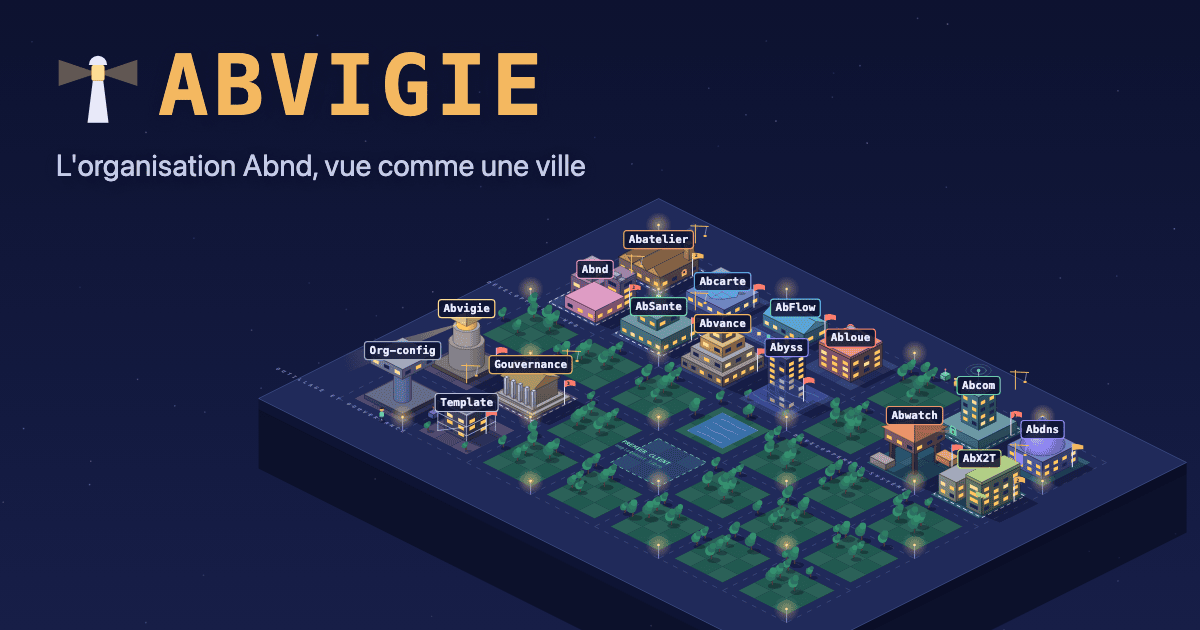
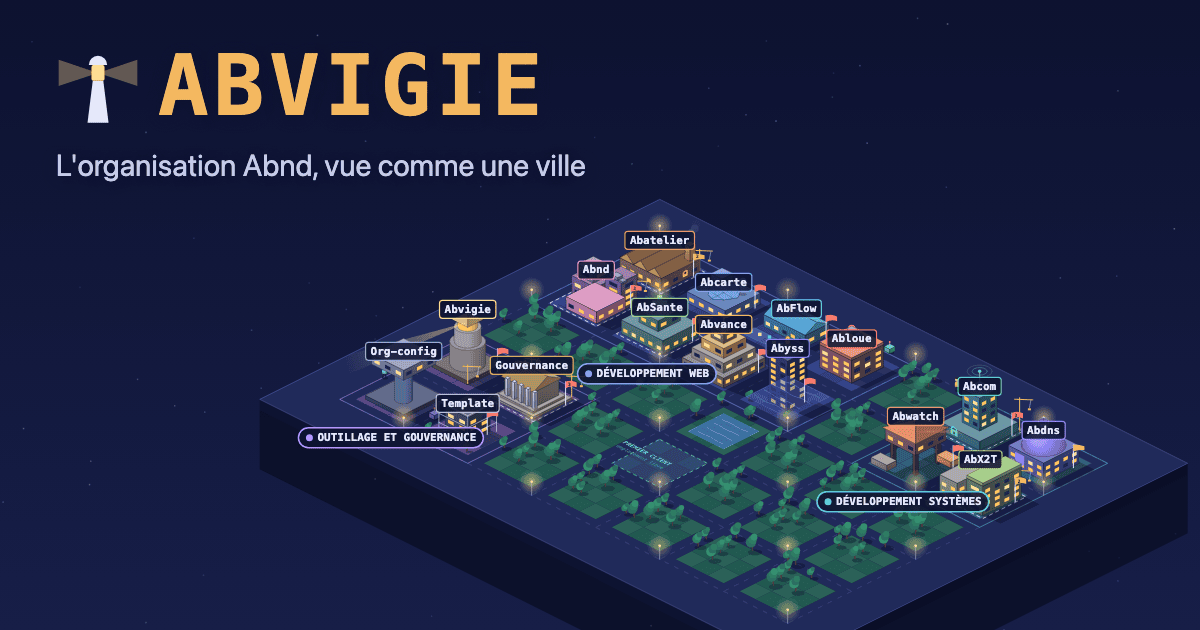
feat(carte): quartiers mieux marqués, enseignes lisibles, grue au sol
- liseré et sol plus teinté par quartier ; enseigne en pastille, toujours dans l'écran
- survol d'un quartier : liseré éclairé et infobulle (projets, actifs, alertes)
- la grue d'un chantier se dresse au sol et non plus dans le vide

diff --git a/server/assets/js/carte.js b/server/assets/js/carte.js
@@ -37,6 +37,9 @@ async function demarrer() {
     personnages: true,
     /** @type {Batiment | null} */ survol: null,
     /** @type {ReturnType<typeof acteurs.trouver>} */ survolActeur: null,
+    /** @type {import('./monde.js').Quartier | null} */ quartier: null,
+    /** Les enseignes de quartier telles que dessinées, en pixels d'écran, pour savoir si la souris est dessus. */
+    /** @type {{ q: import('./monde.js').Quartier, x: number, y: number, l: number, h: number }[]} */ enseignes: [],
     /** @type {string | null} */ selection: null,
     /** @type {Set<string>} */ surligne: new Set(),
     curseur: { x: 0, y: 0 },
@@ -140,6 +143,7 @@ async function demarrer() {
     ctx.translate(-camera.x, -camera.y);
     const scene = { ox: 0, oy: 0, t: etat.t, anim: animer(), zoom: camera.zoom };
     monde.dessinerSol(ctx, scene, camera.zoneVisible(80));
+    for (const q of monde.quartiers) monde.contourQuartier(ctx, q, etat.quartier === q);
 
     // au sol : pointillés des chantiers, anneaux de sélection et de quête
     for (const b of monde.batiments) {
@@ -171,12 +175,26 @@ async function demarrer() {
 
     etiquettes(ctx);
     infobulle(ctx);
+    infobulleQuartier(ctx);
   }
 
   /** @param {CanvasRenderingContext2D} c */
   function etiquettes(c) {
     c.textBaseline = 'middle';
     c.textAlign = 'center';
+    etat.enseignes = [];
+    if (camera.zoom >= 0.3) {
+      for (const q of monde.quartiers) {
+        const [wx, wy] = monde.enseigneQuartier(q);
+        const [ex, y] = camera.versEcran(wx, wy);
+        c.font = `800 11px ${POLICE}`;
+        const l = c.measureText(q.titre.toUpperCase()).width + 26;
+        // l'enseigne reste toujours dans l'écran : jamais coupée sur un bord
+        const x = Math.min(Math.max(ex, 8 + l / 2), camera.largeur - 8 - l / 2);
+        enseigne(c, q.titre, x, y, monde.accentQuartier(q.id), etat.quartier === q);
+        etat.enseignes.push({ q, x: x - l / 2, y: y - 10, l, h: 20 });
+      }
+    }
     if (etat.noms) {
       for (const b of monde.batiments) {
         const survole = etat.survol === b || etat.selection === b.projet.slug;
@@ -221,6 +239,78 @@ async function demarrer() {
     c.fillText(texte, x, y + 0.5);
   }
 
+  /**
+   * L'enseigne d'un quartier : une pastille à son couleur. Renvoie sa largeur.
+   * @param {CanvasRenderingContext2D} c
+   * @param {string} texte
+   * @param {number} x
+   * @param {number} y
+   * @param {string} couleur
+   * @param {boolean} vif
+   */
+  function enseigne(c, texte, x, y, couleur, vif) {
+    c.font = `800 11px ${POLICE}`;
+    const l = c.measureText(texte.toUpperCase()).width + 26;
+    c.fillStyle = vif ? 'rgba(14,19,48,0.98)' : 'rgba(14,19,48,0.88)';
+    c.strokeStyle = couleur;
+    c.lineWidth = vif ? 2.5 : 1.5;
+    c.beginPath();
+    c.roundRect(x - l / 2, y - 10, l, 20, 10);
+    c.fill();
+    c.stroke();
+    c.fillStyle = couleur;
+    c.beginPath();
+    c.arc(x - l / 2 + 11, y, 3.5, 0, Math.PI * 2);
+    c.fill();
+    c.fillStyle = vif ? '#ffffff' : '#dfe4ff';
+    c.textAlign = 'left';
+    c.fillText(texte.toUpperCase(), x - l / 2 + 19, y + 0.5);
+    c.textAlign = 'center';
+    return l;
+  }
+
+  /** @param {CanvasRenderingContext2D} c */
+  function infobulleQuartier(c) {
+    const q = etat.quartier;
+    if (!q || etat.survol || etat.survolActeur) return;
+    const projets = monde.batiments.filter((b) => b.projet.quartier === q.id).map((b) => b.projet);
+    const alertes = projets.reduce((n, p) => n + p.alertes, 0);
+    const lignes = [q.titre, `${projets.length} projet${projets.length > 1 ? 's' : ''} · ${projets.filter((p) => p.lumieres > 0).length} actif${projets.filter((p) => p.lumieres > 0).length > 1 ? 's' : ''}`];
+    if (alertes) lignes.push(`${alertes} alerte${alertes > 1 ? 's' : ''}`);
+    bulle(c, lignes, monde.accentQuartier(q.id), alertes > 0);
+  }
+
+  /**
+   * Une infobulle près du curseur : un titre, des lignes, la dernière en ambre si `alerte`.
+   * @param {CanvasRenderingContext2D} c
+   * @param {string[]} lignes
+   * @param {string} couleur
+   * @param {boolean} alerte
+   */
+  function bulle(c, lignes, couleur, alerte) {
+    c.textBaseline = 'middle';
+    c.font = `600 11px ${POLICE}`;
+    const l = Math.max(...lignes.map((t) => c.measureText(t).width)) + 18;
+    const h = lignes.length * 16 + 12;
+    let x = etat.curseur.x + 16;
+    let y = etat.curseur.y + 16;
+    if (x + l > camera.largeur - 8) x = etat.curseur.x - l - 12;
+    if (y + h > camera.hauteur - 8) y = etat.curseur.y - h - 12;
+    c.fillStyle = 'rgba(12,16,42,0.96)';
+    c.strokeStyle = couleur;
+    c.lineWidth = 1.5;
+    c.beginPath();
+    c.roundRect(x, y, l, h, 5);
+    c.fill();
+    c.stroke();
+    c.textAlign = 'left';
+    lignes.forEach((t, i) => {
+      c.fillStyle = i === 0 ? '#ffffff' : i === lignes.length - 1 && alerte ? '#f4b860' : '#aab3d8';
+      c.font = `${i === 0 ? 700 : 500} 11px ${POLICE}`;
+      c.fillText(t, x + 9, y + 15 + i * 16);
+    });
+  }
+
   /** @param {CanvasRenderingContext2D} c */
   function infobulle(c) {
     const b = etat.survol;
@@ -230,26 +320,7 @@ async function demarrer() {
     const lignes = [p.nom, etatTexte, `${p.issues} issue${p.issues > 1 ? 's' : ''} · ${p.prs} PR`];
     if (p.alertes) lignes.push(`${p.alertes} alerte${p.alertes > 1 ? 's' : ''}`);
     if (p.chantier) lignes.push('chantier à débloquer');
-    c.font = `600 11px ${POLICE}`;
-    const l = Math.max(...lignes.map((t) => c.measureText(t).width)) + 18;
-    const h = lignes.length * 16 + 12;
-    let x = etat.curseur.x + 16;
-    let y = etat.curseur.y + 16;
-    if (x + l > camera.largeur - 8) x = etat.curseur.x - l - 12;
-    if (y + h > camera.hauteur - 8) y = etat.curseur.y - h - 12;
-    c.fillStyle = 'rgba(12,16,42,0.96)';
-    c.strokeStyle = p.accent;
-    c.lineWidth = 1.5;
-    c.beginPath();
-    c.roundRect(x, y, l, h, 5);
-    c.fill();
-    c.stroke();
-    c.textAlign = 'left';
-    lignes.forEach((t, i) => {
-      c.fillStyle = i === 0 ? '#ffffff' : i === lignes.length - 1 && (p.chantier || p.alertes) ? '#f4b860' : '#aab3d8';
-      c.font = `${i === 0 ? 700 : 500} 11px ${POLICE}`;
-      c.fillText(t, x + 9, y + 15 + i * 16);
-    });
+    bulle(c, lignes, p.accent, p.chantier || p.alertes > 0);
   }
 
   /* ---------------------------------------------------------------- la boucle */
@@ -290,6 +361,8 @@ async function demarrer() {
     const [wx, wy] = camera.versMonde(px, py);
     etat.survolActeur = etat.personnages ? acteurs.trouver(wx, wy) : null;
     etat.survol = etat.survolActeur ? null : monde.trouver(wx, wy);
+    const sousEnseigne = etat.enseignes.find((e) => px >= e.x && px <= e.x + e.l && py >= e.y && py <= e.y + e.h);
+    etat.quartier = etat.survol || etat.survolActeur ? null : sousEnseigne ? sousEnseigne.q : monde.quartierSous(wx, wy);
     canevas.classList.toggle('pointe', etat.survol !== null);
     invalider();
   }
@@ -304,6 +377,7 @@ async function demarrer() {
     sortie() {
       etat.survol = null;
       etat.survolActeur = null;
+      etat.quartier = null;
       invalider();
     },
     change: invalider,

diff --git a/server/assets/js/monde.js b/server/assets/js/monde.js
@@ -7,13 +7,14 @@
  * une parcelle occupe donc 4 × 4 tuiles avec sa route. Les positions des routes sont des multiples de 4.
  */
 import { dessiner, emprise, grue } from './batiments.js';
-import { TH, TW, hash, nuance, polygone, proj, unproj } from './iso.js';
+import { TH, TW, hash, nuance, polygone, proj, rgba, unproj } from './iso.js';
 
 /** Tuiles par parcelle, route comprise. */
 export const LOT = 4;
 
 /** @typedef {import('./donnees.js').Donnees} Donnees */
 /** @typedef {import('./donnees.js').Projet} Projet */
+/** @typedef {{ id: string, titre: string, x: number, y: number, w: number, h: number }} Quartier */
 /** @typedef {import('./batiments.js').Scene} Scene */
 
 /**
@@ -28,10 +29,18 @@ export const LOT = 4;
  */
 
 const COULEURS_QUARTIER = /** @type {Record<string, string>} */ ({
-  web: '#2e3a74',
-  systemes: '#235470',
-  outillage: '#503f73',
+  web: '#2b3d82',
+  systemes: '#1f5a78',
+  outillage: '#5a4282',
   autres: '#343b68',
+});
+
+/** La couleur d'accent de chaque quartier : son liseré et son enseigne. */
+const ACCENTS_QUARTIER = /** @type {Record<string, string>} */ ({
+  web: '#86a2ff',
+  systemes: '#5fd0e6',
+  outillage: '#b896ff',
+  autres: '#9aa6d6',
 });
 
 /**
@@ -277,19 +286,6 @@ export function creerMonde(donnees) {
     ctx.stroke();
     ctx.setLineDash([]);
 
-    // les noms des quartiers, écrits à plat sur la route qui borde chaque bloc
-    for (const q of quartiers) {
-      ctx.save();
-      const [x, y] = proj(q.x + 0.4, q.y + q.h * 1 + 0.1 + (q.h > 0 ? 0 : 0));
-      ctx.translate(x, y);
-      ctx.transform(1, 0.5, -1, 0.5, 0, 0);
-      ctx.font = '700 9px ui-monospace, SFMono-Regular, Menlo, monospace';
-      ctx.fillStyle = 'rgba(190,200,255,0.5)';
-      ctx.textBaseline = 'top';
-      ctx.fillText(q.titre.toUpperCase().split('').join(' '), 8, 10);
-      ctx.restore();
-    }
-
     // l'étang du parc : de l'eau qui ondule doucement
     if (etang) {
       const ex = etang.cx * LOT + decalage + 1;
@@ -401,13 +397,56 @@ export function creerMonde(donnees) {
         profondeur: b.profondeur,
         dessiner: (ctx) => {
           const p = b.projet;
+          // la grue d'un chantier se dresse au sol, derrière le bâtiment, et dépasse un peu son toit
+          if (p.chantier) grue(ctx, b.ox + 2.75, b.oy + 0.25, 0, s, Math.max(38, b.haut * 0.8));
           dessiner(ctx, { slug: p.slug, accent: p.accent, lumieres: p.lumieres, archive: p.archive }, { ...s, ox: b.ox, oy: b.oy });
-          if (p.chantier) grue(ctx, b.ox + 2.7, b.oy + 0.4, b.haut, s);
           apres(ctx, b);
         },
       });
     }
     return liste;
+  }
+
+  /** @param {string} id */
+  const accentQuartier = (id) => ACCENTS_QUARTIER[id] ?? ACCENTS_QUARTIER.autres;
+
+  /**
+   * Le liseré d'un quartier, sur l'axe des routes qui le bordent.
+   * @param {CanvasRenderingContext2D} ctx
+   * @param {{ x: number, y: number, w: number, h: number, id: string }} q
+   * @param {boolean} vif
+   */
+  function contourQuartier(ctx, q, vif) {
+    const coins = [proj(q.x + 0.5, q.y + 0.5), proj(q.x + q.w + 0.5, q.y + 0.5), proj(q.x + q.w + 0.5, q.y + q.h + 0.5), proj(q.x + 0.5, q.y + q.h + 0.5)];
+    ctx.beginPath();
+    coins.forEach(([x, y], i) => (i ? ctx.lineTo(x, y) : ctx.moveTo(x, y)));
+    ctx.closePath();
+    if (vif) {
+      ctx.fillStyle = rgba(accentQuartier(q.id), 0.12);
+      ctx.fill();
+    }
+    ctx.strokeStyle = rgba(accentQuartier(q.id), vif ? 0.95 : 0.5);
+    ctx.lineWidth = vif ? 3 : 2;
+    ctx.stroke();
+  }
+
+  /**
+   * Le quartier sous un point du monde, s'il y en a un.
+   * @param {number} x
+   * @param {number} y
+   */
+  function quartierSous(x, y) {
+    const [gx, gy] = unproj(x, y);
+    return quartiers.find((q) => gx >= q.x + 0.5 && gx < q.x + q.w + 0.5 && gy >= q.y + 0.5 && gy < q.y + q.h + 0.5) ?? null;
+  }
+
+  /**
+   * Le point du monde où poser l'enseigne d'un quartier : au milieu de son bord avant, un peu en dehors.
+   * @param {{ x: number, y: number, w: number, h: number }} q
+   * @returns {[number, number]}
+   */
+  function enseigneQuartier(q) {
+    return proj(q.x + q.w / 2 + 0.5, q.y + q.h + 1.3);
   }
 
   /**
@@ -424,7 +463,7 @@ export function creerMonde(donnees) {
     return trouve;
   }
 
-  return { batiments, quartiers, W, H, decalage, marge, noeuds, boite, cadre, clientTuile, dessinerSol, objets, trouver, unproj };
+  return { batiments, quartiers, W, H, decalage, marge, noeuds, boite, cadre, clientTuile, dessinerSol, objets, trouver, unproj, accentQuartier, contourQuartier, quartierSous, enseigneQuartier };
 }
 
 /**

diff --git a/server/assets/js/batiments.js b/server/assets/js/batiments.js
@@ -792,10 +792,10 @@ function roue(ctx, r, couleur, angle) {
  * @param {number} gy
  * @param {number} z  la hauteur du pied de la grue
  * @param {Scene} s
+ * @param {number} [haut]  la hauteur du mât
  */
-export function grue(ctx, gx, gy, z, s) {
+export function grue(ctx, gx, gy, z, s, haut = 38) {
   const [x, y] = proj(gx, gy, z);
-  const haut = 38;
   const ang = s.anim ? Math.sin(s.t * 0.5) * 0.5 : 0.2;
   ctx.strokeStyle = '#f4b860';
   ctx.lineWidth = 2;

diff --git a/docs/carte.md b/docs/carte.md
@@ -24,7 +24,7 @@ La frontière importante : `iso.js` et `batiments.js` ne savent rien de la carte
 - Une **parcelle** fait 3 × 3 tuiles de terrain, plus une tuile de route : 4 tuiles avec sa route. Un bâtiment vit dans sa parcelle.
 - Les projets sont rangés **par quartier** (les domaines de la charte : développement web, développement systèmes, outillage et gouvernance), chaque quartier en un bloc de parcelles. Les blocs sont posés sur des « étagères » de 8 parcelles de large.
 - Les **parcelles libres** deviennent des parcs, avec des arbres et, au plus près du centre, un étang. L'**emplacement du premier client** reste libre, en pointillés : la charte demande de s'y préparer avant le premier client.
-- Le nom de chaque quartier est écrit **à plat sur la route** qui le borde.
+- Chaque quartier a un **liseré** à sa couleur sur les routes qui le bordent, un sol un peu plus teinté et une **enseigne** (une pastille avec son nom) au milieu de son bord avant. L'enseigne reste toujours dans l'écran. Survoler l'enseigne ou le sol du quartier éclaire son liseré et affiche son nombre de projets, d'actifs et d'alertes.
 
 ## Un bâtiment
 
